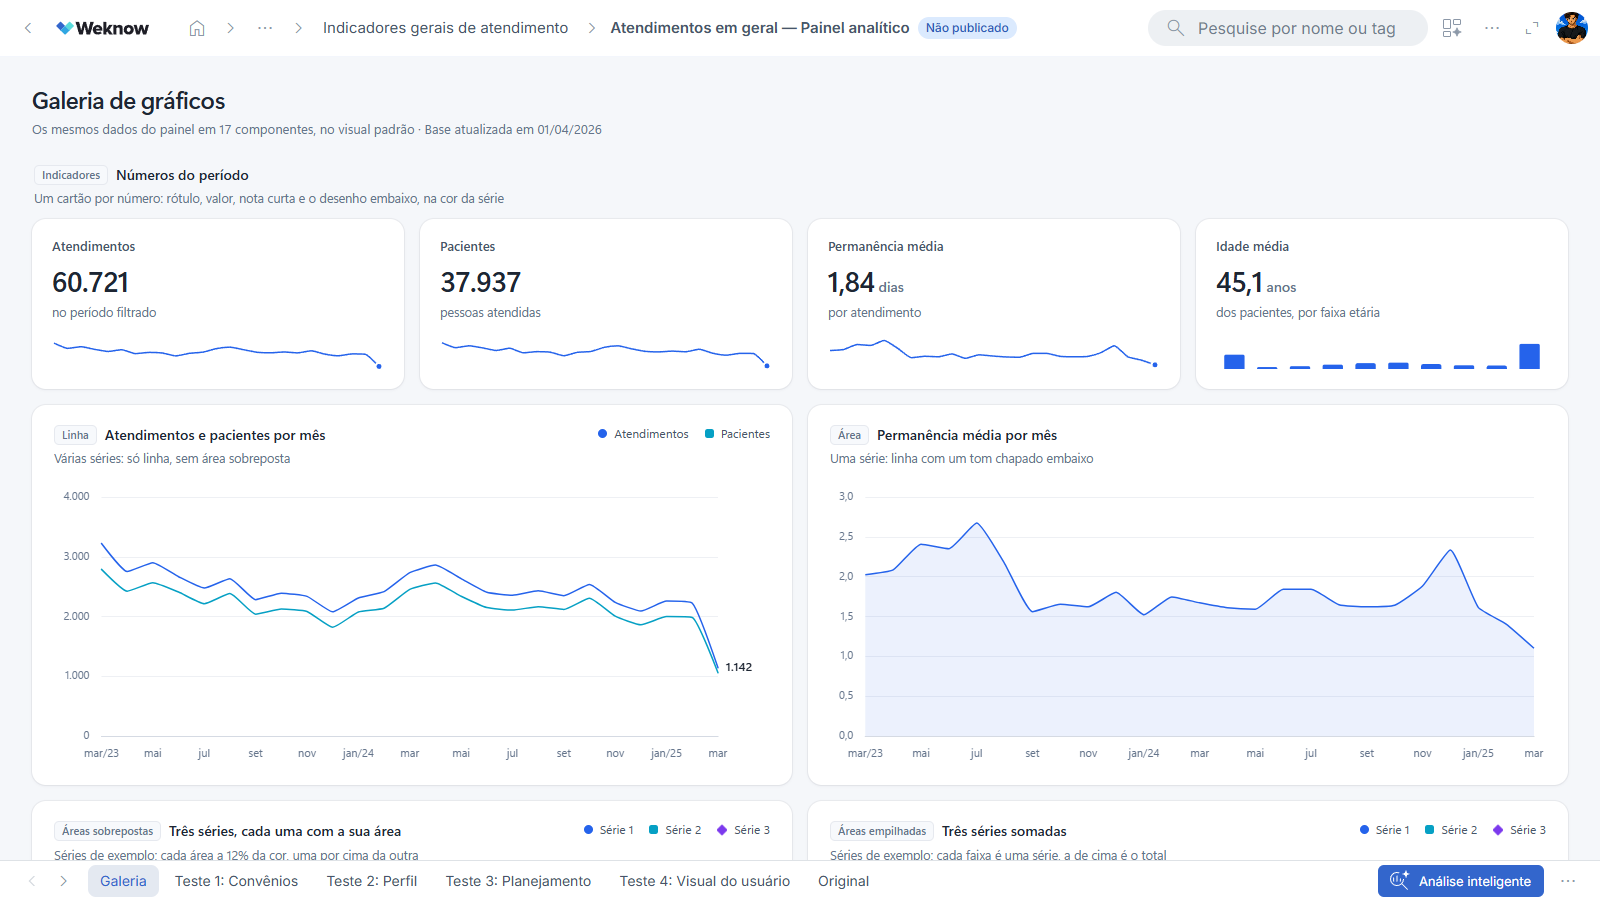
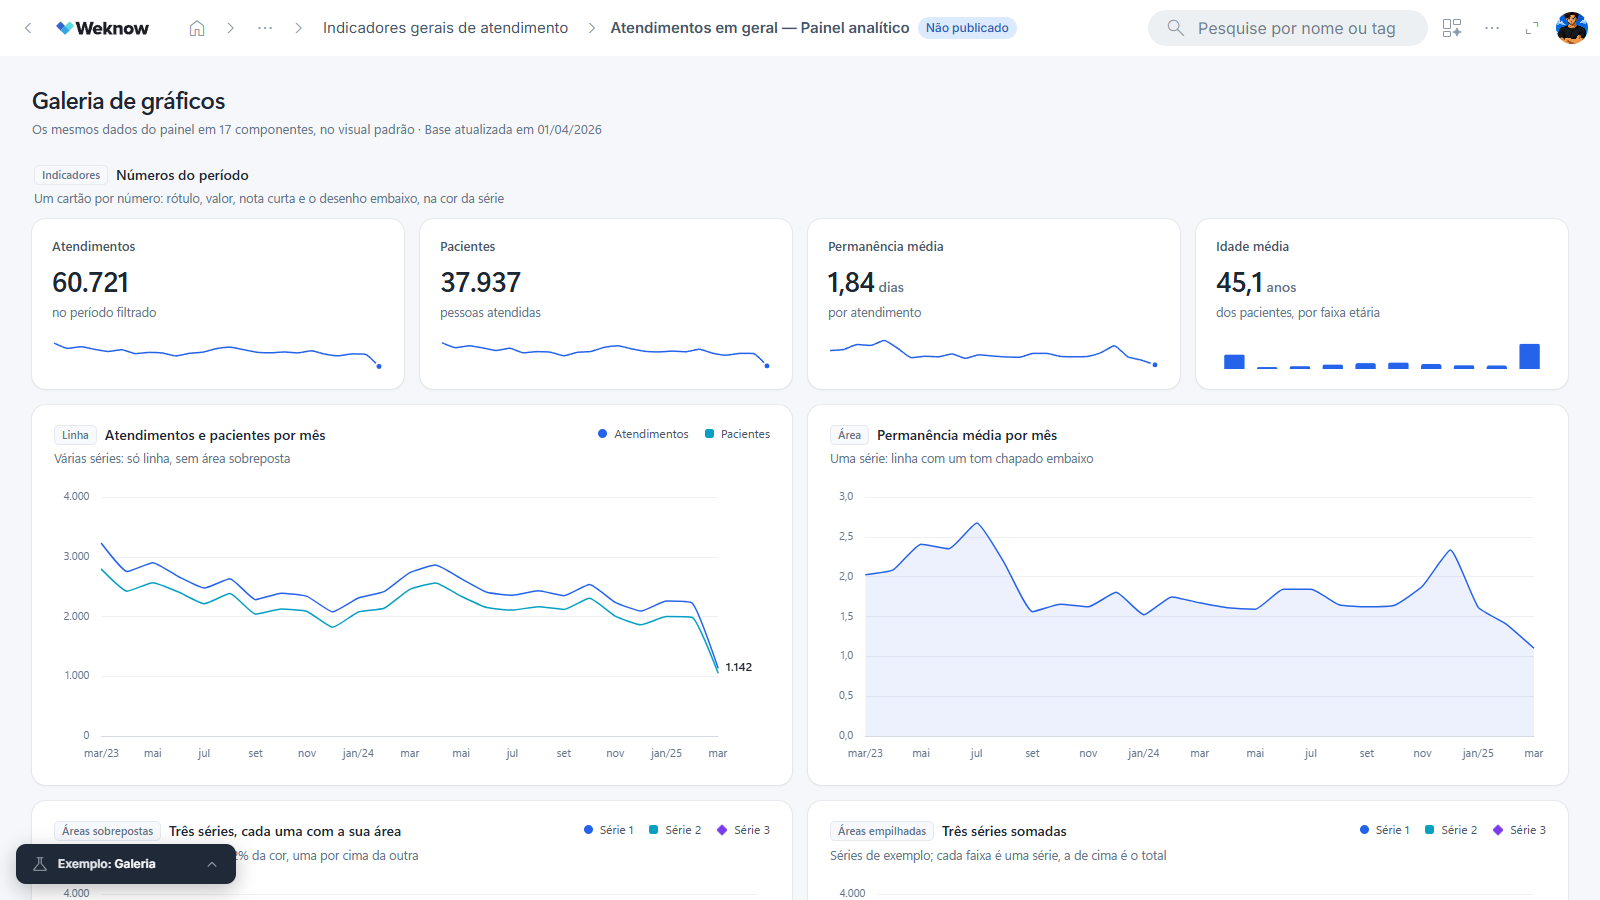
Dashboard MCP: sem a barra de abas do dashboard normal
O dashboard criado pelo MCP não tem a barra de baixo (abas e Análise
inteligente): abas só se a pessoa pedir, e a IA desenha a navegação.
A troca entre Galeria, testes e Original vira um controle do protótipo,
escuro e recolhido no canto, com o pedido de cada teste ao parar o mouse.

diff --git a/projects/painel_ia_fontes/index.html b/projects/painel_ia_fontes/index.html
@@ -568,22 +568,13 @@ button.marker:hover, button.marker[aria-expanded="true"] { background: var(--wk-
    folga dentro do item), não na borda da caixa deles. */
 ul.versions + .note { padding-left: 12px; }
 
-/* ─── páginas do dashboard: a barra de baixo, como as páginas do Weknow.
-   Cada página é um painel do MCP com outro formato, para o estudo do
-   visual padrão (projects/painel_padrao). ─── */
-.paginas { flex: none; display: flex; align-items: center; gap: 8px; height: 40px; padding: 0 16px; border-top: 1px solid var(--wk-border); background: var(--wk-surface); }
-.paginas .setas { display: flex; align-items: center; flex: none; }
-.paginas .seta { width: 32px; height: 32px; display: flex; align-items: center; justify-content: center; border: 0; border-radius: 6px; background: none; color: var(--wk-nav-label); cursor: pointer; }
-.paginas .seta:hover { background: var(--wk-icon-hover); }
-.paginas .seta:disabled { opacity: .4; pointer-events: none; }
-.paginas .abas { flex: 1; min-width: 0; display: flex; align-items: center; gap: 4px; overflow: hidden; }
-.pagina { flex: none; height: 32px; max-width: 240px; padding: 0 12px; border: 0; border-radius: 8px; background: transparent; cursor: pointer;
-  font: 400 14px/1 Inter, system-ui, sans-serif; color: var(--wk-nav-text); white-space: nowrap; overflow: hidden; text-overflow: ellipsis; transition: background-color .15s, color .15s; }
-.pagina:hover { background: var(--wk-nav-hover, var(--wk-hover)); color: var(--wk-nav-hover-text, var(--wk-text)); }
-.pagina[aria-selected="true"] { background: var(--wk-nav-active); color: var(--wk-nav-active-text, var(--wk-primary)); }
-.paginas .acoes { flex: none; display: flex; align-items: center; gap: 8px; padding-left: 16px; }
-.paginas .acoes .btn.primary { gap: 8px; padding: 0 12px 0 8px; }
-.paginas .acoes .mais { width: 32px; height: 32px; display: flex; align-items: center; justify-content: center; color: var(--wk-nav-label); }
+/* ─── exemplos: cada um é um painel do MCP com outro formato, para o
+   estudo do visual padrão (projects/painel_padrao). O dashboard do MCP
+   não tem a barra de abas de baixo do dashboard normal (abas só se a
+   pessoa pedir, e a IA desenha), então a troca entre eles é um controle
+   do protótipo, com o mesmo visual escuro do .demo abaixo. ─── */
+.demo.exemplos { bottom: 16px; min-width: 220px; }
+.exemplos .demo-toggle .atual { color: #fff; }
 
 /* ─── controle do protótipo (não faz parte da interface): escuro de
    propósito, para não ser lido como parte da tela ─── */
@@ -685,7 +676,9 @@ ul.versions + .note { padding-left: 12px; }
   </aside>
 </div>
 
-<nav class="paginas" id="paginas" role="tablist" aria-label="Páginas do dashboard"></nav>
+<!-- Controle do protótipo: não faz parte da interface. Troca entre os
+     exemplos (galeria, testes e o original); fica recolhido no canto. -->
+<nav class="demo exemplos" id="paginas" aria-label="Exemplos do protótipo"></nav>
 
 <!-- Controle do protótipo: não faz parte da interface. Simula as três
      situações de publicação; recolhe num botão e reabre por ele. -->
@@ -1401,27 +1394,16 @@ ul.versions + .note { padding-left: 12px; }
     const r = await fetch(p.arquivo, { cache: 'no-store' }).catch(() => null);
     return r && r.ok ? r.text() : `<!doctype html><body style="font:14px system-ui;padding:24px;color:#64748b">Esta página ainda não existe (${esc(p.arquivo)}).`;
   }
-  /* A barra inferior do dashboard do portal (DashboardBar): setas juntas na
-     frente, as abas como item de navegação (fundo e cor de ativo do menu,
-     raio 8, texto 14) e, à direita, Análise inteligente e o "…". */
-  const ICONE_ANALISE = '<svg width="24" height="24" viewBox="0 0 24 24" fill="none" aria-hidden="true" style="display:block;flex:none"><path fill="currentColor" d="M9.99707 3.00034C10.8957 3.00035 11.7304 3.14596 12.5029 3.43296C12.3496 3.72887 12.2266 4.04365 12.1416 4.37339C11.4805 4.12555 10.767 4.00034 10 4.00034C8.33333 4.00034 6.91667 4.58587 5.75 5.7562C4.58355 6.92664 4 8.34804 4 10.0198C4.00014 11.6916 4.58347 13.1133 5.75 14.2835C6.91659 15.4538 8.33351 16.0384 10 16.0384C11.6665 16.0384 13.0834 15.4538 14.25 14.2835C15.4165 13.1133 15.9998 11.6916 16 10.0198C16 10.0037 15.9983 9.98711 15.998 9.97104C16.1629 9.98935 16.3303 10.0003 16.5 10.0003C16.6687 10.0003 16.8351 9.98914 16.999 9.97104C16.9991 9.9807 17 9.99067 17 10.0003C17 10.8784 16.8474 11.7096 16.543 12.4935C16.2385 13.2774 15.8195 13.9732 15.2861 14.5794L21 20.2923L20.3115 21.0003L14.5977 15.2864C13.9785 15.8198 13.277 16.2388 12.4932 16.5433C11.7092 16.8477 10.8781 17.0003 10 17.0003C8.04596 17.0003 6.39046 16.3226 5.03418 14.9671C3.67808 13.6115 3.00007 11.9564 3 10.0032C3.00002 8.05004 3.67766 6.39409 5.0332 5.03647C6.38886 3.67883 8.04375 3.00034 9.99707 3.00034ZM7.15332 12.597H6.15332V8.53843H7.15332V12.597ZM10.5 12.597H9.5V6.63511H10.5V12.597ZM13.8467 12.597H12.8467V9.50034H13.8467V12.597ZM18.8301 1.09409C18.8581 0.968637 19.1419 0.968637 19.1699 1.09409C19.3509 1.91852 19.5309 3.22556 20.1533 3.848C20.7759 4.47007 22.081 4.6495 22.9053 4.83042C23.0312 4.85805 23.0312 5.14264 22.9053 5.17026C22.081 5.35117 20.7758 5.53061 20.1533 6.15268C19.5309 6.77513 19.3509 8.08117 19.1699 8.90561C19.1423 9.03149 18.8577 9.03149 18.8301 8.90561C18.6491 8.08117 18.4701 6.77513 17.8477 6.15268C17.2253 5.53042 15.9191 5.35119 15.0947 5.17026C14.9688 5.14264 14.9688 4.85805 15.0947 4.83042C15.9191 4.64948 17.2252 4.47026 17.8477 3.848C18.4701 3.22556 18.6491 1.91853 18.8301 1.09409Z"/></svg>';
+  let exemplosAbertos = false;
   function renderPaginas() {
-    const i = PAGINAS.findIndex((p) => p.id === pagina);
+    const atual = PAGINAS.find((p) => p.id === pagina);
     $('#paginas').innerHTML =
-      `<div class="setas"><button class="seta" type="button" data-passo="-1" aria-label="Aba anterior" title="Aba anterior" ${i === 0 ? 'disabled' : ''}><span class="ms">chevron_left</span></button>` +
-      `<button class="seta" type="button" data-passo="1" aria-label="Próxima aba" title="Próxima aba" ${i === PAGINAS.length - 1 ? 'disabled' : ''}><span class="ms">chevron_right</span></button></div>` +
-      '<div class="abas" role="tablist" aria-label="Abas do dashboard">' +
-      PAGINAS.map((p, k) => `<button class="pagina" type="button" role="tab" data-pagina="${p.id}" aria-selected="${k === i}" tabindex="${k === i ? 0 : -1}" title="${esc(p.nota ? `Pedido: ${p.nota}` : p.nome)}">${esc(p.nome)}</button>`).join('') + '</div>' +
-      `<div class="acoes"><button class="btn primary" type="button">${ICONE_ANALISE}Análise inteligente</button><span class="mais" aria-hidden="true"><span class="ms">more_horiz</span></span></div>`;
+      `<div class="demo-opts" id="ex-opts" role="group" aria-label="Exemplos" ${exemplosAbertos ? '' : 'hidden'}>` +
+      PAGINAS.map((p) => `<button type="button" data-pagina="${p.id}" aria-pressed="${p.id === pagina}" title="${esc(p.nota ? `Pedido: ${p.nota}` : p.nome)}">${esc(p.nome)}</button>`).join('') + '</div>' +
+      `<button type="button" class="demo-toggle" id="ex-toggle" aria-expanded="${exemplosAbertos}" aria-controls="ex-opts">` +
+      `<span class="ms s20" aria-hidden="true">science</span><span>Exemplo: <span class="atual">${esc(atual.nome)}</span></span><span class="ms s20 chev" aria-hidden="true">expand_more</span></button>`;
     $('#paginas').querySelectorAll('[data-pagina]').forEach((b) => (b.onclick = () => abrirPagina(b.dataset.pagina)));
-    $('#paginas').querySelectorAll('[data-passo]').forEach((b) => (b.onclick = () => abrirPagina(PAGINAS[i + Number(b.dataset.passo)].id)));
-    $('#paginas .abas').onkeydown = (e) => {
-      const passo = e.key === 'ArrowRight' ? 1 : e.key === 'ArrowLeft' ? -1 : 0;
-      if (!passo) return;
-      e.preventDefault();
-      const j = Math.min(PAGINAS.length - 1, Math.max(0, i + passo));
-      abrirPagina(PAGINAS[j].id).then(() => $(`#paginas [data-pagina="${PAGINAS[j].id}"]`)?.focus());
-    };
+    $('#ex-toggle').onclick = () => { exemplosAbertos = !exemplosAbertos; renderPaginas(); $('#ex-toggle').focus(); };
   }
   async function abrirPagina(id) {
     const p = PAGINAS.find((x) => x.id === id);
